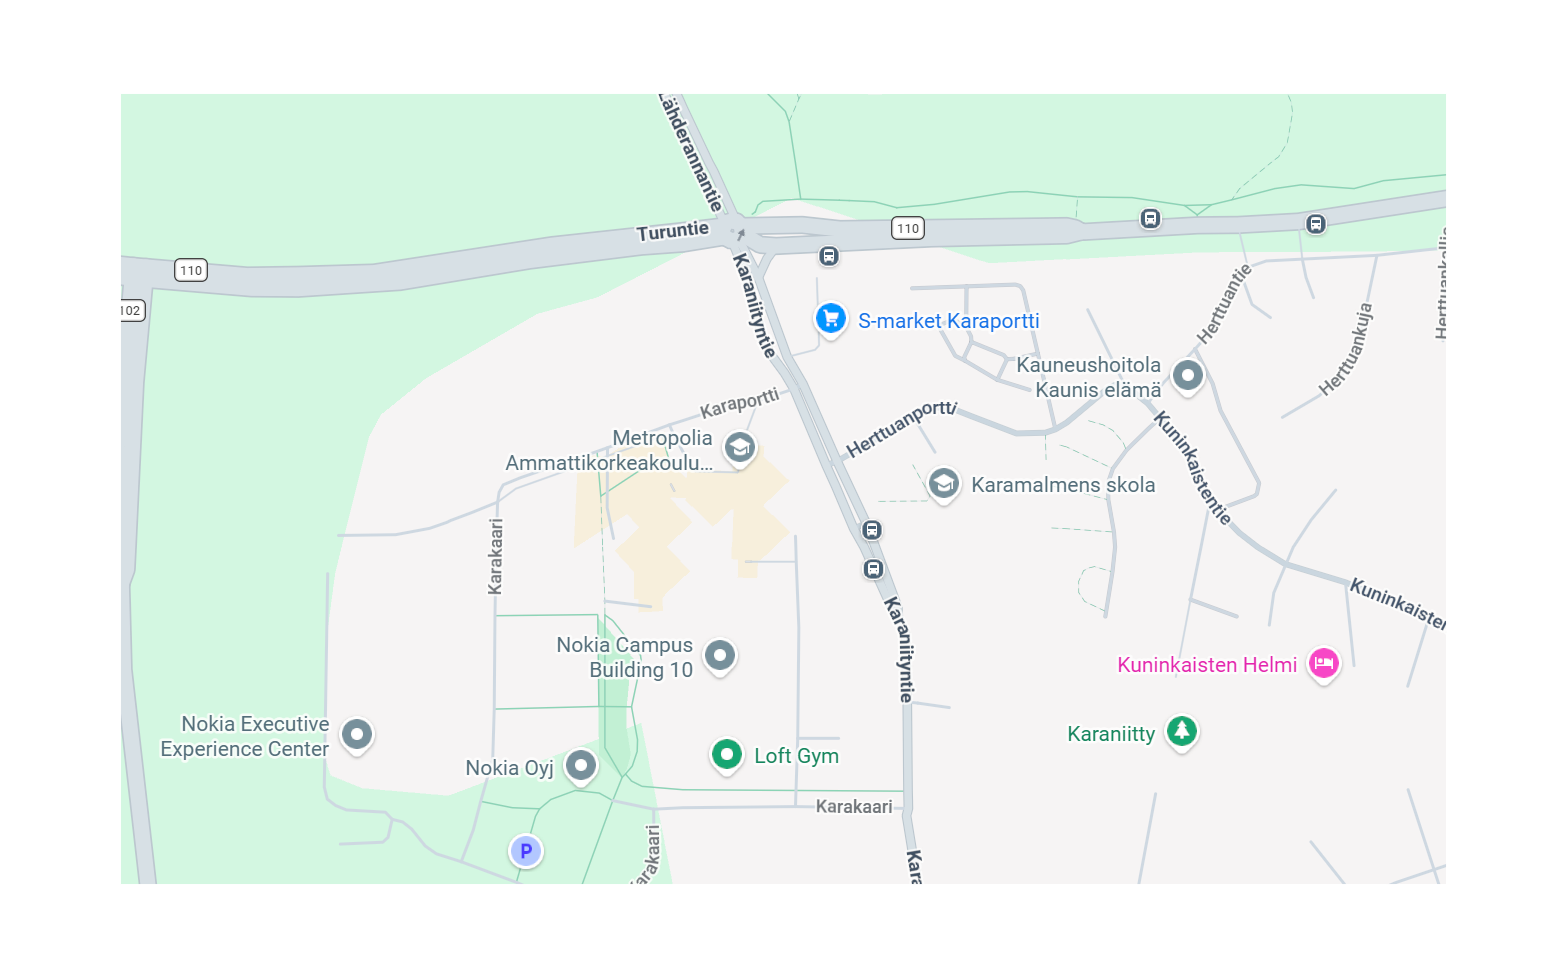
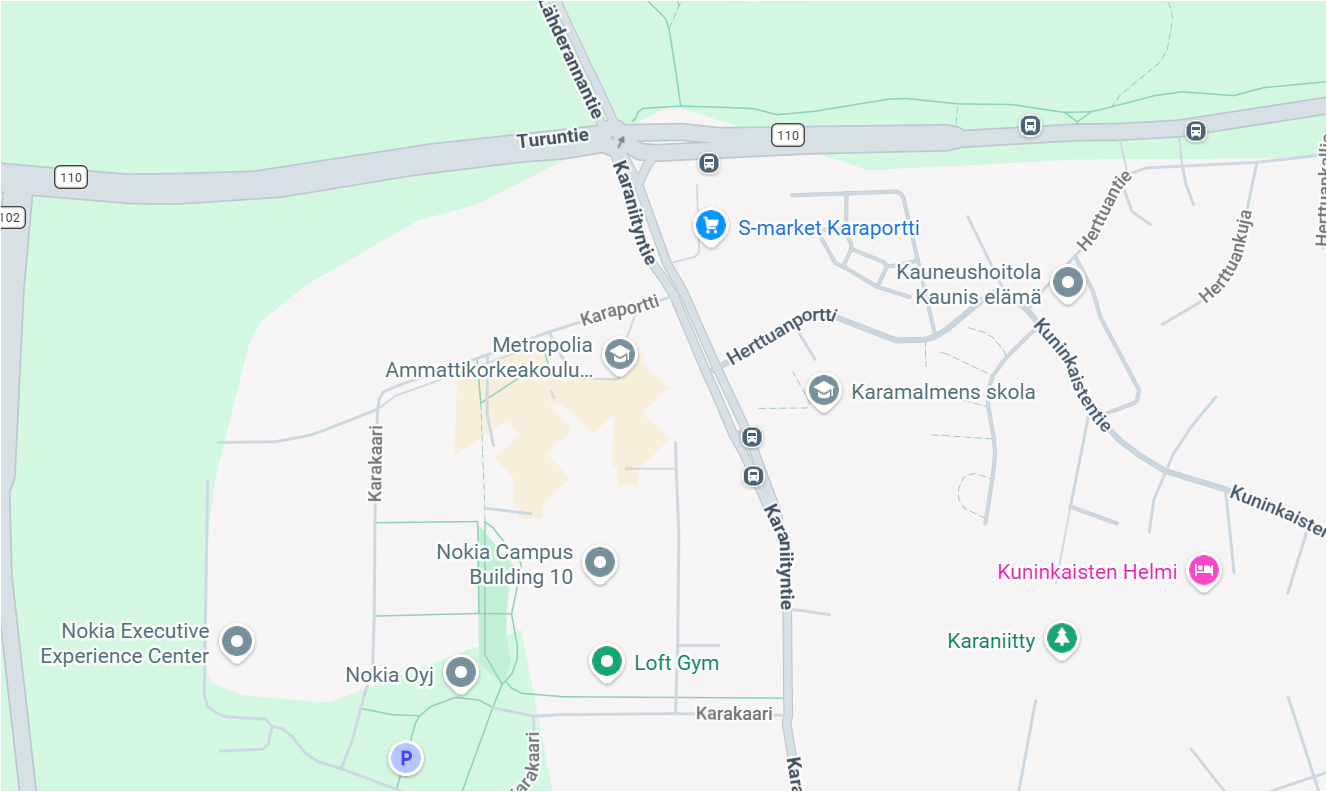
meh

diff --git a/html-css-tehtävä/index.html b/html-css-tehtävä/index.html
@@ -7,10 +7,17 @@
     <link rel="stylesheet" type="text/css" href="styles.css" />
   </head>
   <body>
+    
+    <div class="headbox">
+      <img src="images/logo.png" type="image/png" alt="logo" id="hbchild"/>
+      <a href="#" id="hbchild">Home</a>
+      <a href="#" id="hbchild">Products</a>
+      <a href="#" id="hbchild">Contact</a>
+    </div>
     <div class="container">
       <div class="maintitle child">Company</div>
       <img src="images/expo.png" type="image/png" alt="expo city"/>
       <p class="child">Lorem, ipsum dolor sit amet consectetur adipisicing elit. Minus molestias totam eligendi nulla iusto deserunt in facilis. Accusantium earum tempora, iusto quibusdam commodi voluptas aspernatur qui dignissimos ex ratione ipsam.</p>
-    </section>
+    </div>
   </body>
 </html>

diff --git a/tuntitehtävät/array test/index.html b/tuntitehtävät/array test/index.html
@@ -1,0 +1,19 @@
+<!DOCTYPE html>
+<html lang="en">
+<head>
+    <meta charset="UTF-8">
+    <meta name="viewport" content="width=device-width, initial-scale=1.0">
+    <title>Document</title>
+    <script src="script.js" defer></script>
+</head>
+<body>
+    <p>Muokkaamaton lista:</p>
+    <p id="muokkaamaton"></p>
+    <p>Alkuperäinen viimeinen alkio:</p>
+    <p id="viimeinenalk"></p>
+    <p>Ensimmäinen alkio, kun taulukko järjestetty:</p>
+    <p id="ensinsort"></p>
+    <p>Koko lista, kun poistettu aakkosissa ensimmäinen:</p>
+    <p id="muokattu"></p>
+</body>
+</html>

diff --git a/tuntitehtävät/array test/script.js b/tuntitehtävät/array test/script.js
@@ -1,0 +1,22 @@
+"use strict";
+
+const names = [];
+
+for (let i = 0; i < 5; i++) {
+    let newName = prompt("Anna uusi nimi listaan.");
+    names.push(newName);
+}
+
+console.log(names);
+
+document.querySelector("#muokkaamaton").textContent = names;
+
+document.querySelector("#viimeinenalk").textContent = names[4];
+
+names.sort();
+
+document.querySelector("#ensinsort").textContent = names[0];
+
+names.shift();
+
+document.querySelector("#muokattu").textContent = names;

diff --git a/itseopiskelu-video-tehtävät/3testihtml/styles.css b/itseopiskelu-video-tehtävät/3testihtml/styles.css
@@ -29,3 +29,15 @@ body {
   background-color: peachpuff;
   border: 1px solid #333;
 }
+
+.grid-container {
+  display: grid;
+  grid-template-columns: 1fr 1fr;
+  gap: 10px;
+}
+
+.grid-item {
+  padding: 20px;
+  background-color: lightgreen;
+  border: 1px solid #333;
+}

diff --git a/html-css-tehtävä/styles.css b/html-css-tehtävä/styles.css
@@ -14,6 +14,20 @@ p {
   text-align: center;
 }
 
+.headbox {
+  display: flex;
+  flex-direction: row-reverse;
+  height: 4em;
+}
+
+.logo {
+  height: 0.5em;
+}
+
+.hbchild {
+  padding: 0.5em;
+}
+
 .container {
   display: flex;
   align-items: center;
